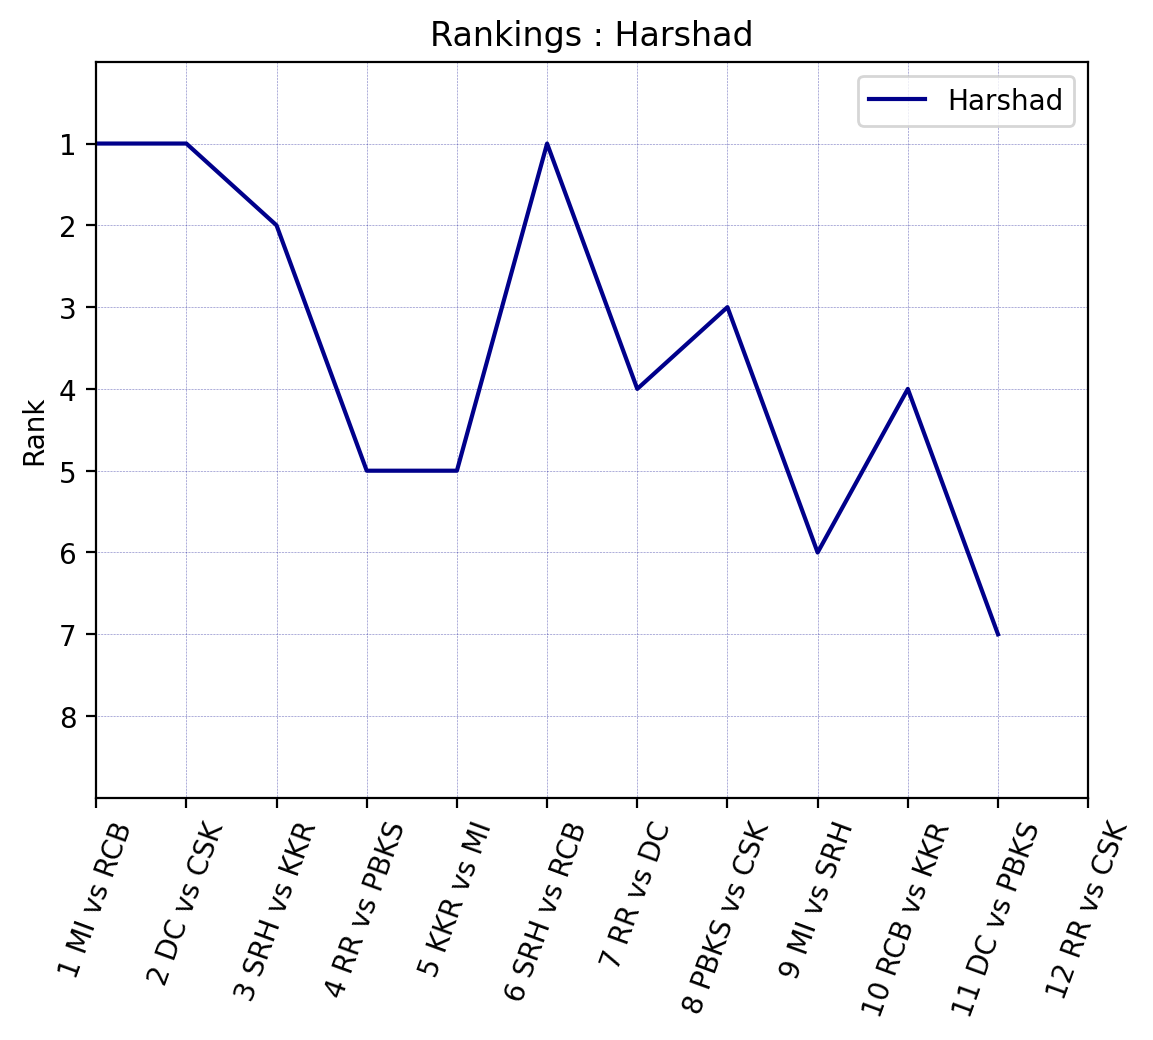
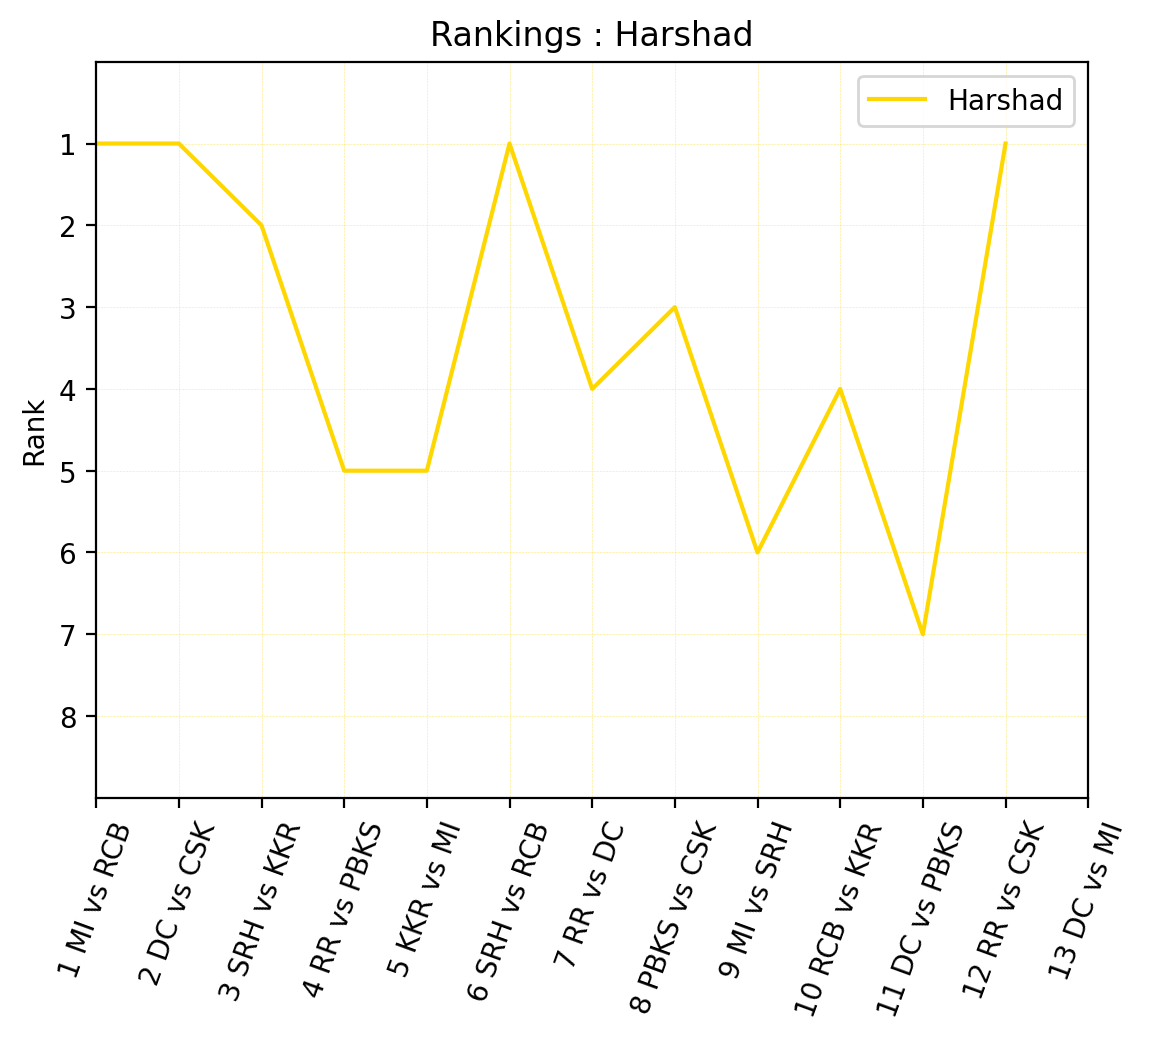
Add files via upload

diff --git a/index.html b/index.html
@@ -18,8 +18,8 @@ CSK : ffd700
 
 <body>
 
-<h1 style="color:#00008b;text-align:center">Vivo IPL 2021</h1>
-<h1 style="color:#00008b;text-align:center;margin-bottom:2cm">Dashboard for मॉडर्नचे  जुगारी</h1>
+<h1 style="color:#ffd700;text-align:center">Vivo IPL 2021</h1>
+<h1 style="color:#ffd700;text-align:center;margin-bottom:2cm">Dashboard for मॉडर्नचे  जुगारी</h1>
 
 <audio id="ID001" source src="track1.mp3"></audio><button onclick="playAudio('ID001')" type="button"><img src="play_button.jpg" alt="Play" width="40" height="40"></button>
 <script>
@@ -29,7 +29,7 @@ function playAudio(audio_element) {
 }
 </script>
 
-<h2 style="color:#00008b;text-align:center"><u>Rankings : Graphs</u></h2>
+<h2 style="color:#ffd700;text-align:center"><u>Rankings : Graphs</u></h2>
 
 <img src="rank_plot-Abhishek.png" alt="rank_plot-Abhishek" width="600" height="507">
 <img src="rank_plot-Anand.png" alt="rank_plot-Anand" width="600" height="507">
@@ -42,7 +42,7 @@ function playAudio(audio_element) {
 
 <p style="margin-top:3cm"></p>
 
-<h2 style="color:#00008b;text-align:center"><u>Winner Predictions : Graphs</u></h2>
+<h2 style="color:#ffd700;text-align:center"><u>Winner Predictions : Graphs</u></h2>
 
 <img src="win_predict_plot-Abhishek.png" alt="win_predict_plot-Abhishek" width="600" height="507">
 <img src="win_predict_plot-Anand.png" alt="win_predict_plot-Anand" width="600" height="507">
@@ -57,7 +57,7 @@ function playAudio(audio_element) {
 
 <p style="margin-top:3cm"></p>
 
-<h2 style="color:#00008b;text-align:center"><u>Bar Charts</u></h2>
+<h2 style="color:#ffd700;text-align:center"><u>Bar Charts</u></h2>
 
 <img src="podium_bar.png" alt="podium_bar" width="600" height="400">
 <img src="win_predict_bar.png" alt="win_predict_bar" width="600" height="400">
